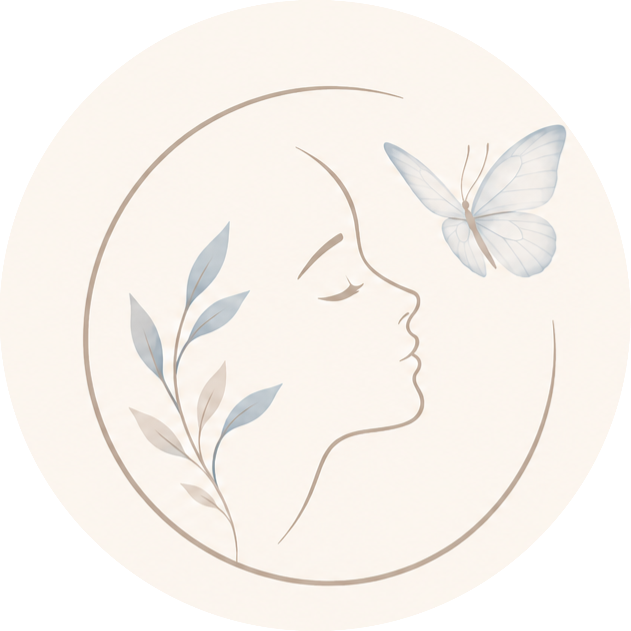
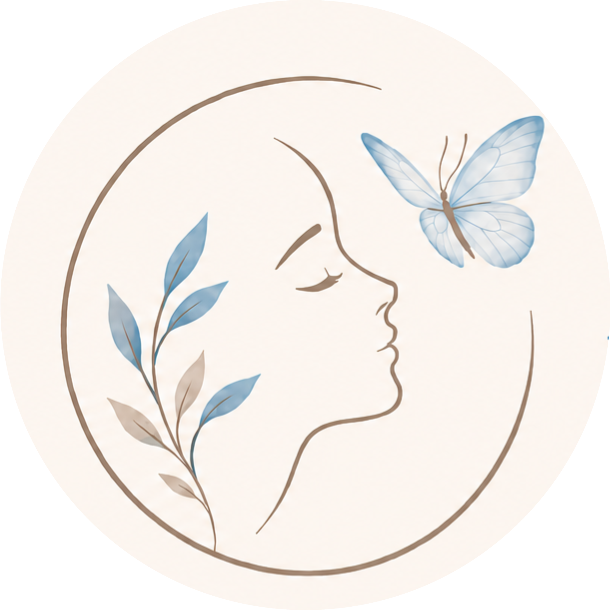
color change

diff --git a/webapp/app/globals.css b/webapp/app/globals.css
@@ -5,9 +5,9 @@
   --color-brand-50: #f0f8fc;
   --color-brand-100: #d6edf7;
   --color-brand-200: #a8d5ec;
-  --color-brand-300: #81C8E8;
-  --color-brand-400: #81C8E8;
-  --color-brand-500: #62b3d8;
+  --color-brand-300: #529BBF;
+  --color-brand-400: #529BBF;
+  --color-brand-500: #3d82a6;
 }
 
 :root {

diff --git a/webapp/components/Header.tsx b/webapp/components/Header.tsx
@@ -7,8 +7,8 @@ export default function Header() {
   return (
     <header className="fixed top-0 inset-x-0 z-50 px-6 md:px-[15%] py-4 border-b border-brand-100 bg-[#f8fbfd]/90 backdrop-blur-sm">
       <div className="flex items-center justify-between">
-        <a href="#hero">
-          <Image src="/images/try-no-back.png" alt="MindHelp24" width={190} height={30} className="h-15 w-auto" />
+        <a href="#hero" >
+          <Image src="/images/logo-no-back.png" alt="MindHelp24" width={190} height={30} className="h-16 w-auto" />
         </a>
         <nav className="hidden md:flex items-center gap-8 text-base text-stone-400">
           <a href="#about" className="hover:text-stone-700 transition-colors">Обо мне</a>